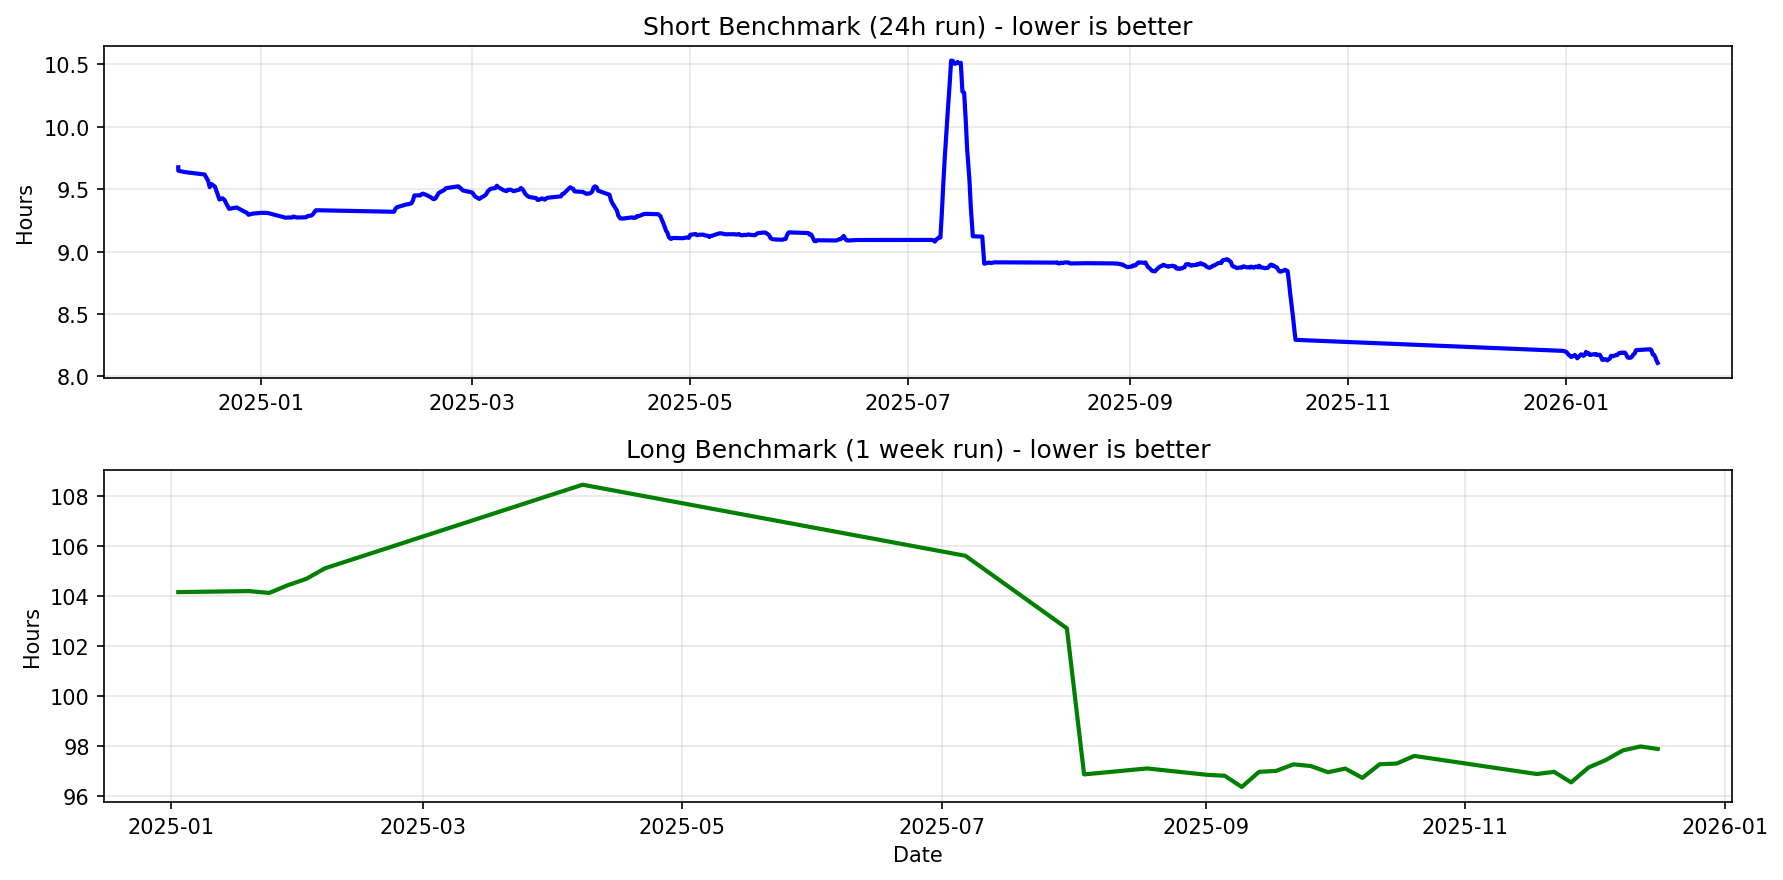
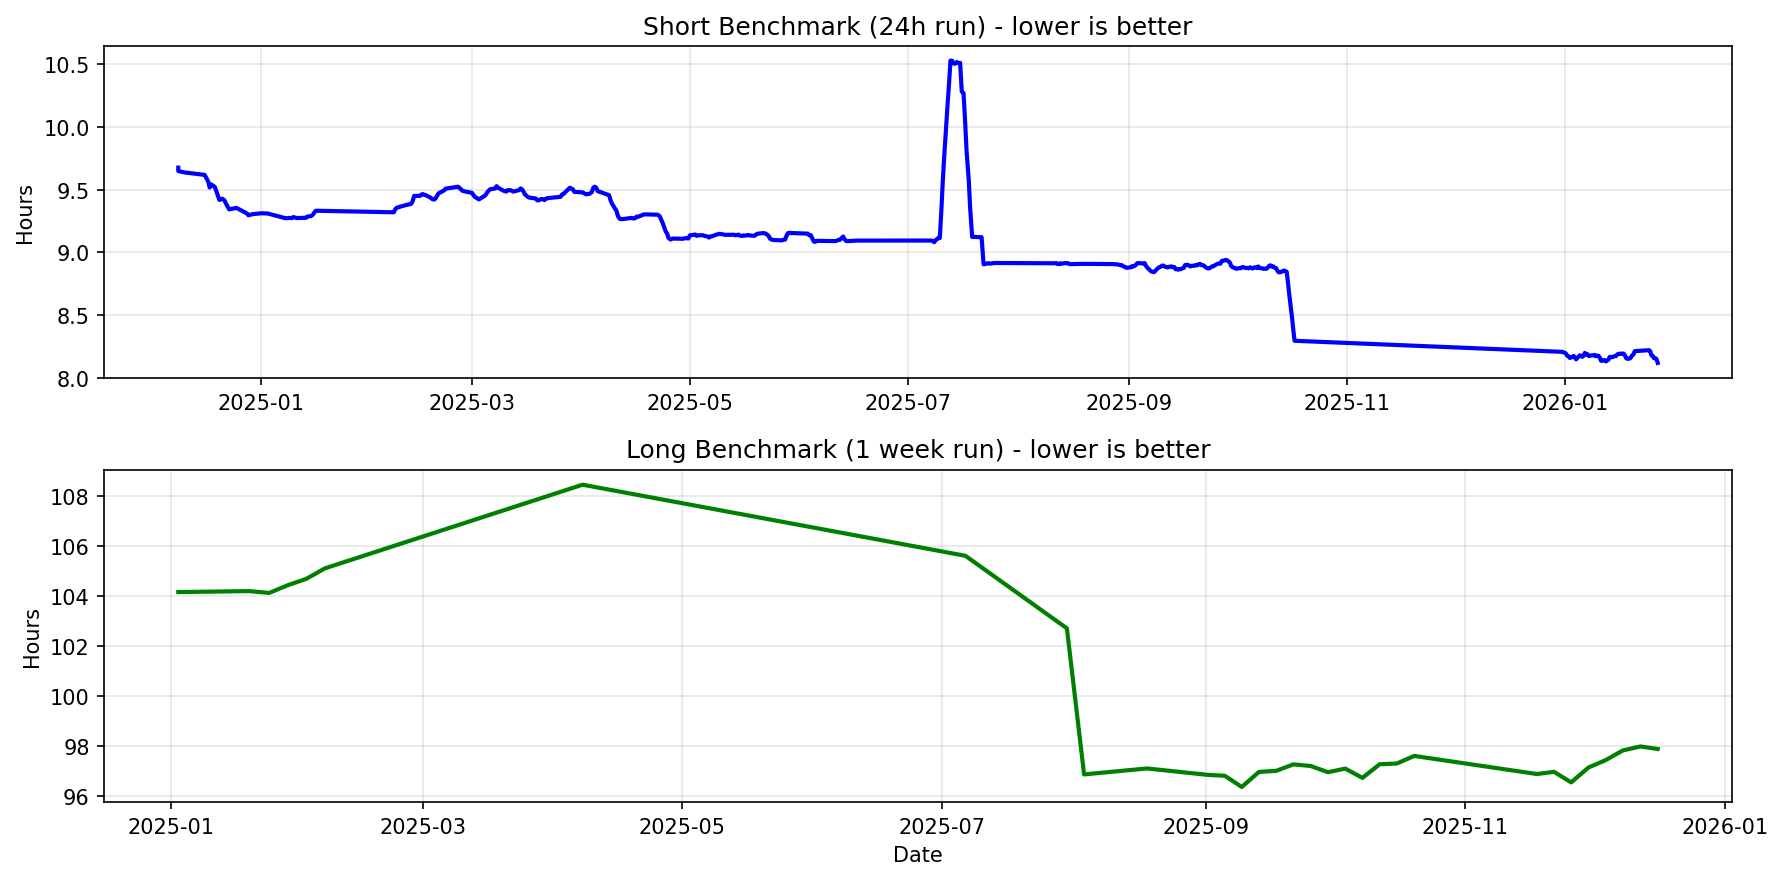
chore: update short benchmark Readme

diff --git a/README.md b/README.md
@@ -12,11 +12,11 @@ This repository contains various eth1 import benchmark metrics.
 
 | Generated At | Baseline SHA | Contender SHA | Baseline Time | Contender Time | Time Delta |
 |--------------|--------------|---------------|---------------|----------------|------------|
+| 2026-01-27 01:30:10 | [15ff468a](https://github.com/status-im/nimbus-eth1/commit/15ff468a) | [b7a310ba](https://github.com/status-im/nimbus-eth1/commit/b7a310ba) | 8h11m33s | 8h10m56s | -37s, -0.13% |
 | 2026-01-26 17:05:05 | [66e9119c](https://github.com/status-im/nimbus-eth1/commit/66e9119c) | [15ff468a](https://github.com/status-im/nimbus-eth1/commit/15ff468a) | 7h58m52s | 8h11m33s | 12m40s, 2.65% |
 | 2026-01-26 08:52:39 | [929d5ba1](https://github.com/status-im/nimbus-eth1/commit/929d5ba1) | [66e9119c](https://github.com/status-im/nimbus-eth1/commit/66e9119c) | 8h6m26s | 7h58m52s | -7m33s, -1.55% |
 | 2026-01-26 00:31:52 | [774ad731](https://github.com/status-im/nimbus-eth1/commit/774ad731) | [929d5ba1](https://github.com/status-im/nimbus-eth1/commit/929d5ba1) | 8h12m4s | 8h6m26s | -5m38s, -1.15% |
 | 2026-01-25 16:06:05 | [1bc91bda](https://github.com/status-im/nimbus-eth1/commit/1bc91bda) | [774ad731](https://github.com/status-im/nimbus-eth1/commit/774ad731) | 8h14m20s | 8h12m4s | -2m15s, -0.46% |
-| 2026-01-25 07:38:19 | [7b0d6985](https://github.com/status-im/nimbus-eth1/commit/7b0d6985) | [1bc91bda](https://github.com/status-im/nimbus-eth1/commit/1bc91bda) | 8h10m38s | 8h14m20s | 3m41s, 0.75% |
 
 ## Latest 5 Long Benchmarks (1 Week Run)
 
